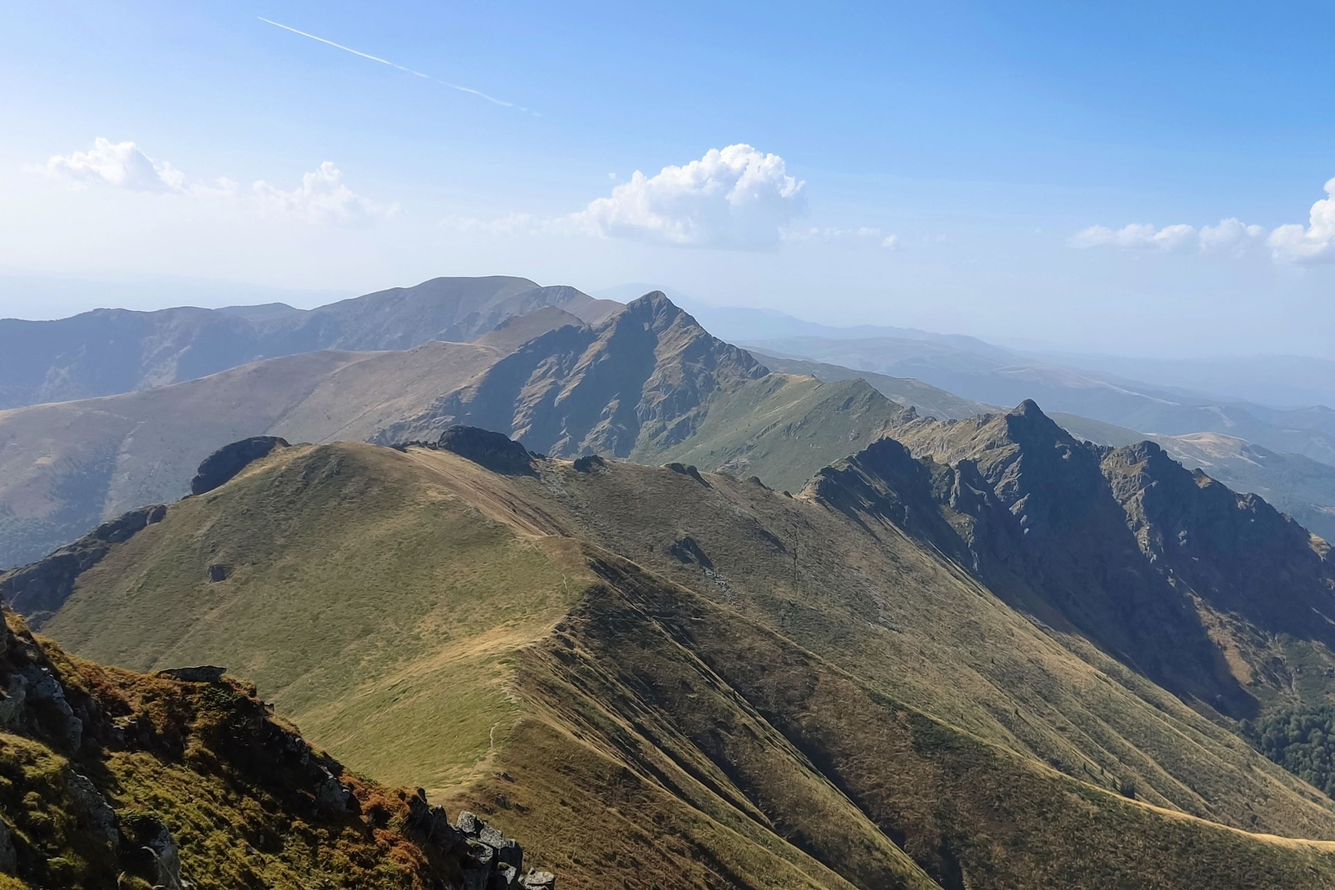
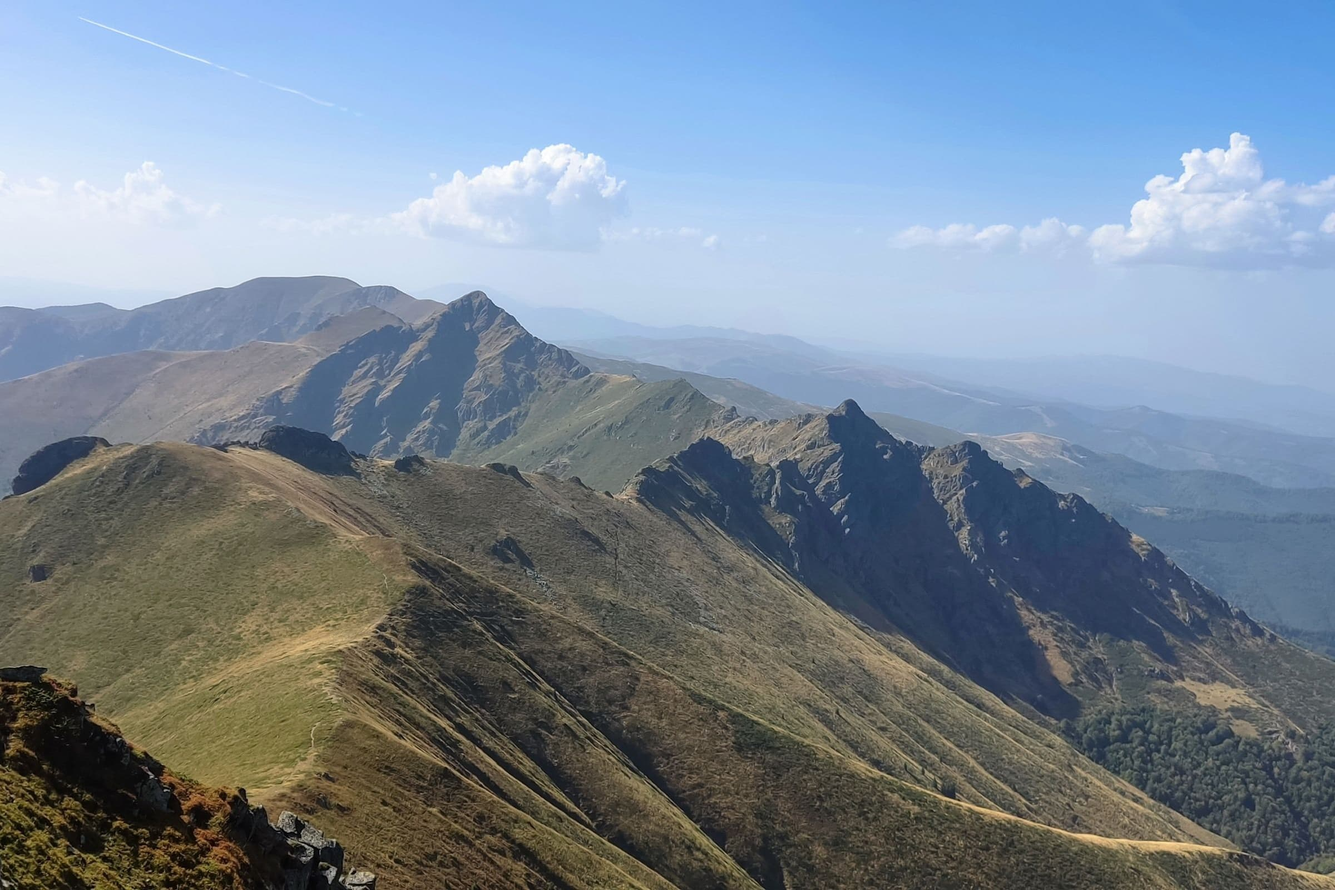
First trail get from DB slug

diff --git a/src/components/hero/hero.css b/src/components/hero/hero.css
@@ -1,46 +1,30 @@
 .hero {
   position: relative;
-
   height: 88vh;
-
   overflow: hidden;
 }
 
 .hero-image {
   position: absolute;
-
   inset: 0;
-
   width: 100%;
-
   height: 100%;
-
   object-fit: cover;
 }
 
 .hero-overlay {
   position: absolute;
-
   inset: 0;
-
   display: flex;
-
   align-items: center;
-
   justify-content: center;
-
-  /* background: linear-gradient(rgba(0, 0, 0, 0.08), rgba(0, 0, 0, 0.18)); */
 }
 
 .hero-content {
   display: flex;
-
   flex-direction: column;
-
   align-items: center;
-
   text-align: center;
-
   color: white;
 }
 
@@ -69,24 +53,16 @@
 
 .hero-button {
   display: inline-flex;
-
   align-items: center;
-
   justify-content: center;
-
   padding: 0.9rem 2rem;
-
   border-radius: 999px;
-
   background: var(--color-secondary);
-
   color: white;
-
   font-weight: 600;
 }
 
 .hero-button:hover {
   background: var(--color-primary);
-
   color: white;
 }

diff --git a/src/styles/global.css b/src/styles/global.css
@@ -102,8 +102,8 @@ ol {
 .hero-icon {
   display: block;
   margin: 1rem auto;
-  width: 6rem;
-  height: 6rem;
+  width: 4rem;
+  height: 4rem;
   color: var(--color-secondary);
 }
 
